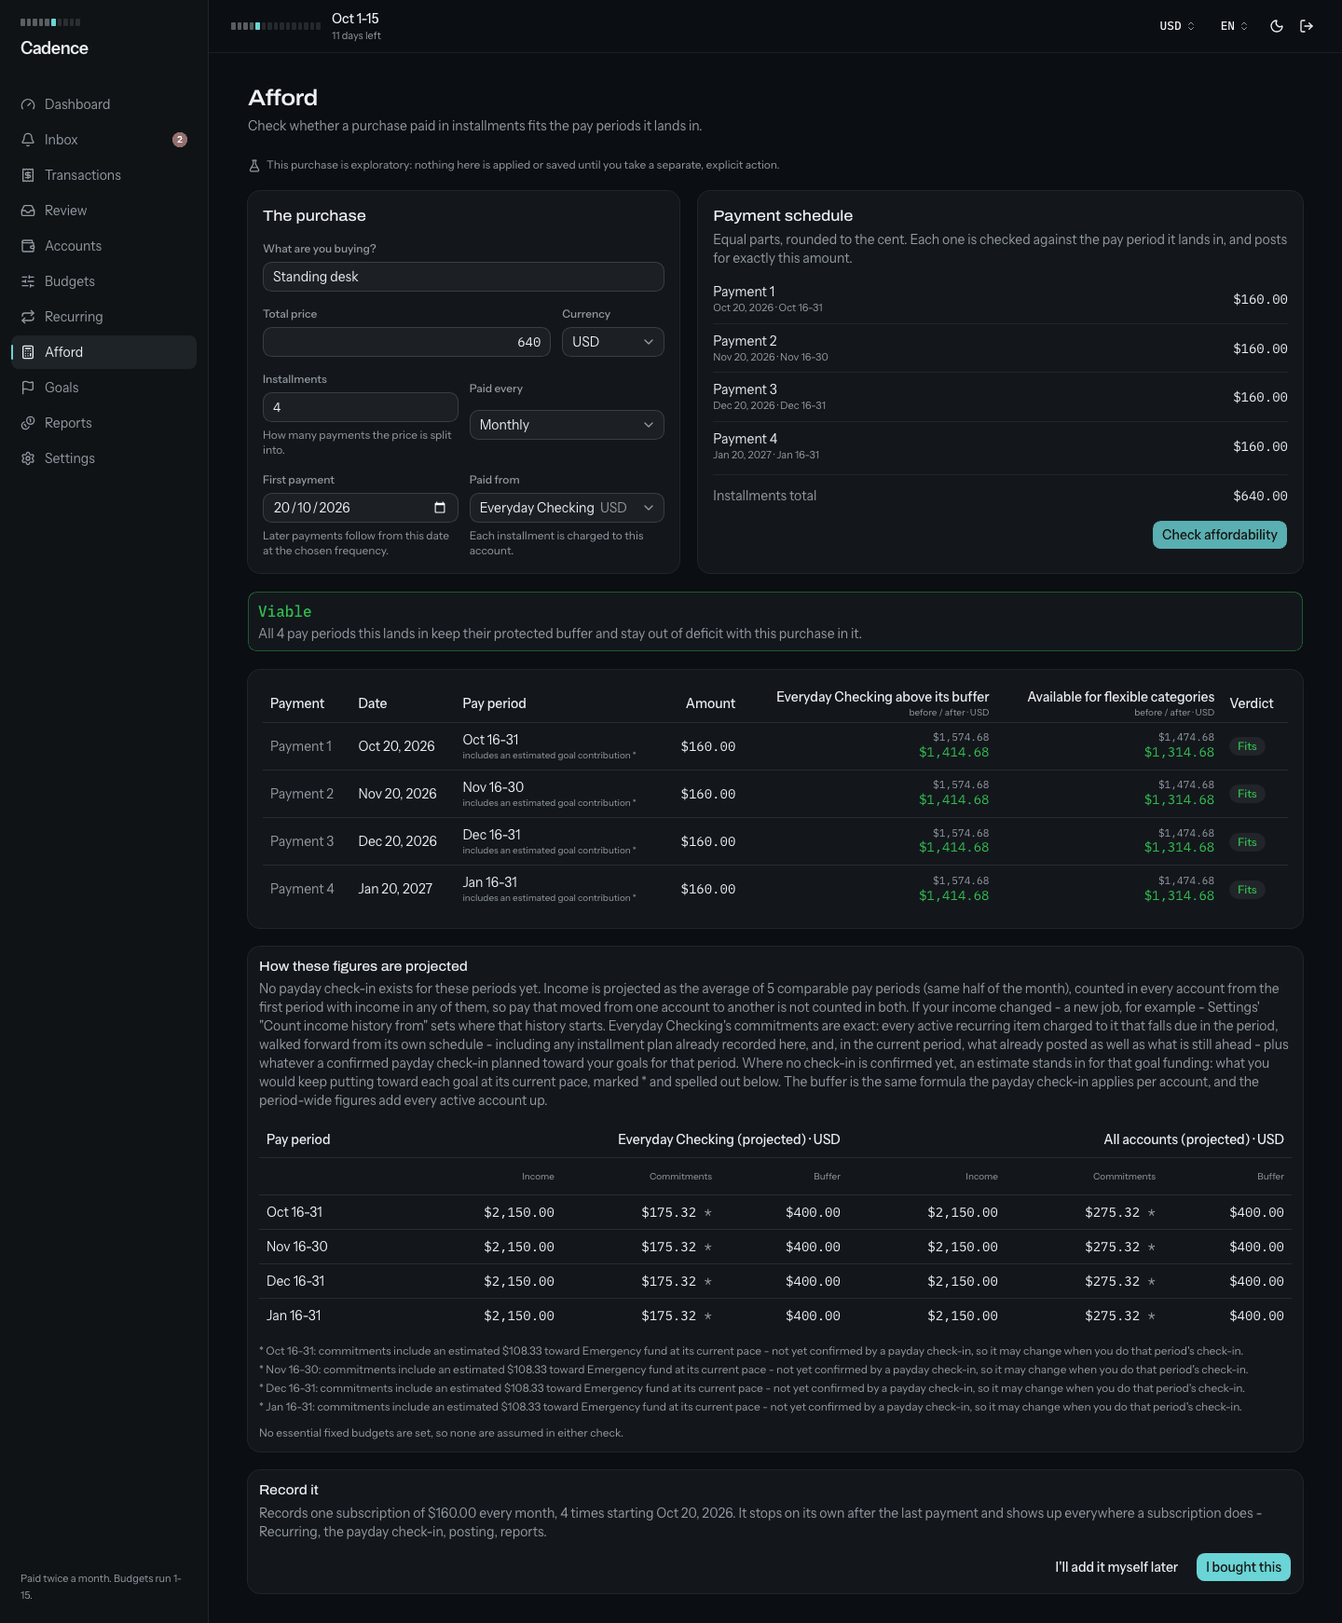
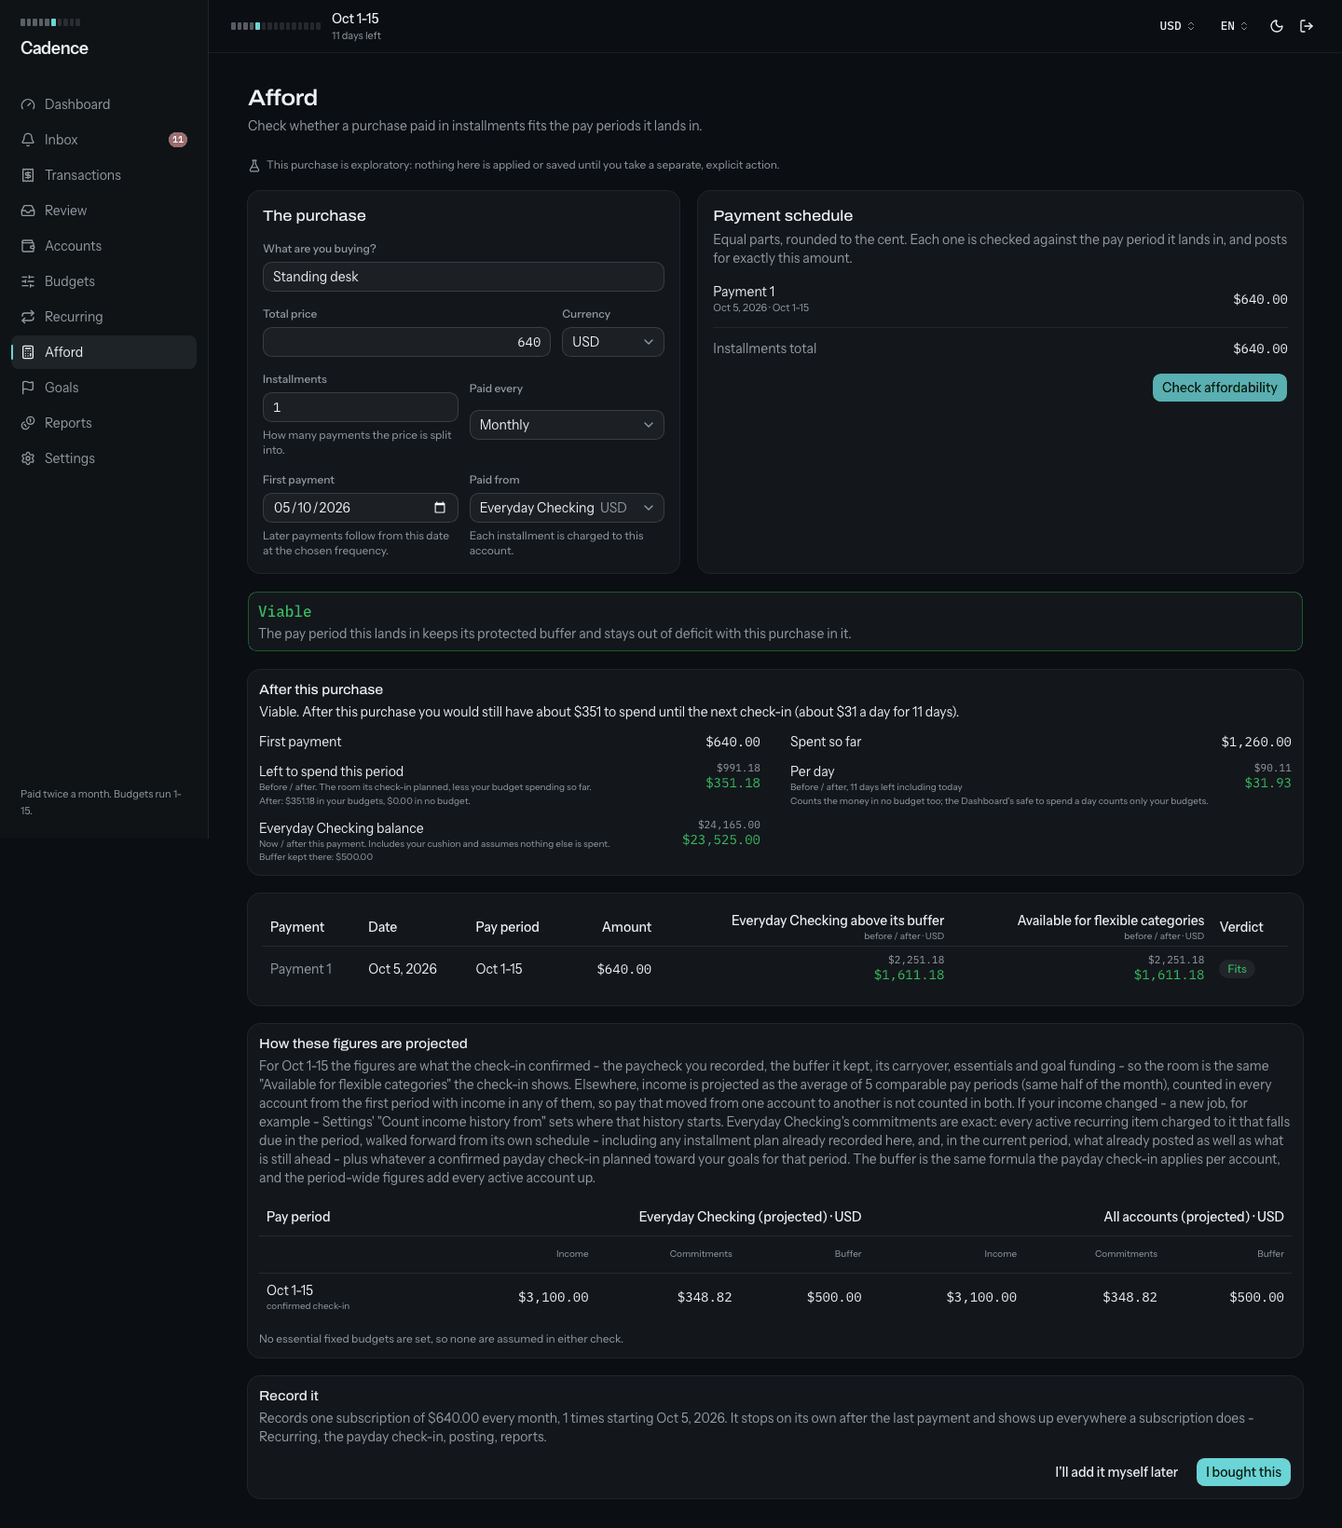
Close five small items: Afford per-day wording, check-in toast, room table on phones, May repeat hint
- Afford: the "Per day" hint says it counts the money in no budget too, unlike
  the Dashboard's safe to spend a day, when part of the money is in no budget
  (English and Spanish). No figure changes. README sentence and
  screenshots/afford-result.png updated (viable single payment, fictional data).
- Payday check-in: the "Payday check-in confirmed" toast is raised where the
  server's answer arrives, not from the dialog's state in an effect. Confirming
  from the Dashboard moves the check-in card to another place in the page, which
  remounted the dialog and dropped the answer, so nothing said it worked.
- Recurring dialog: the room check lists each account as a stacked block below
  sm; from sm up the table stays, and its account cell may wrap so the table
  fits the dialog instead of cutting off the verdict column.
- "May repeat" hint: only subscription items, and the item's category must equal
  the suggestion's unless the charge's description shares a word of three
  letters or more with the item's name. Harness: 7 checks (3258 -> 3265), 5 of
  them failing before the change.

diff --git a/src/components/recurring/subscription-room-panel.tsx b/src/components/recurring/subscription-room-panel.tsx
@@ -44,6 +44,14 @@ export function SubscriptionRoomPanel({
   const fitting = room.accounts.filter((account) => account.passes);
   const selected = room.accounts.find((account) => account.accountId === selectedAccountId) ?? null;
   const withoutHistory = room.accounts.filter((account) => account.basis === "none");
+  const verdictBadge = (account: LargeRoom["accounts"][number]) =>
+    account.passes ? (
+      <Badge variant="secondary" className="text-[var(--good)]">
+        {t.roomFits}
+      </Badge>
+    ) : (
+      <Badge variant="destructive">{t.roomShort}</Badge>
+    );
 
   return (
     <div
@@ -68,52 +76,84 @@ export function SubscriptionRoomPanel({
         ) : null}
       </div>
 
-      <Table>
-        <TableHeader>
-          <TableRow>
-            <TableHead>{t.roomColumnAccount}</TableHead>
-            <TableHead className="text-right whitespace-normal">
-              {t.roomColumnHeadroom}
-              <span className="block text-badge font-normal text-muted-foreground">
-                {t.roomBeforeAfter}
-              </span>
-            </TableHead>
-            <TableHead />
-          </TableRow>
-        </TableHeader>
-        <TableBody>
-          {room.accounts.map((account) => (
-            <TableRow
-              key={account.accountId}
-              className={cn(account.accountId === room.recommendedAccountId && "bg-[var(--good)]/5")}
-            >
-              <TableCell>
+      {/* Below sm each account is a stacked block, like the CSV duplicates
+          review's rows: the table needs 347px (a nowrap name, the two
+          figures and the badge) in the dialog's 317px, and its last column,
+          the verdict, sat past the edge of a sideways scroll. From sm the
+          table stays. Both read the same rows. */}
+      <ul className="divide-y divide-border/50 overflow-hidden rounded-md border border-border/50 sm:hidden">
+        {room.accounts.map((account) => (
+          <li
+            key={account.accountId}
+            className={cn(
+              "flex flex-col gap-1.5 px-3 py-2.5",
+              account.accountId === room.recommendedAccountId && "bg-[var(--good)]/5",
+            )}
+          >
+            <div className="flex items-center justify-between gap-3">
+              <span className="min-w-0">
                 {account.name}
                 {account.accountId === selectedAccountId ? (
                   <span className="ml-1.5 text-badge text-muted-foreground">{t.roomSelected}</span>
                 ) : null}
-              </TableCell>
-              <TableCell className="text-right">
-                <BeforeAfter
-                  before={account.headroomBefore}
-                  after={account.headroomAfter}
-                  currency={account.currency}
-                  passes={account.passes}
-                />
-              </TableCell>
-              <TableCell>
-                {account.passes ? (
-                  <Badge variant="secondary" className="text-[var(--good)]">
-                    {t.roomFits}
-                  </Badge>
-                ) : (
-                  <Badge variant="destructive">{t.roomShort}</Badge>
-                )}
-              </TableCell>
+              </span>
+              {verdictBadge(account)}
+            </div>
+            <div className="flex items-end justify-between gap-3">
+              <span className="text-hint text-muted-foreground">
+                {t.roomColumnHeadroom} · {t.roomBeforeAfter}
+              </span>
+              <BeforeAfter
+                before={account.headroomBefore}
+                after={account.headroomAfter}
+                currency={account.currency}
+                passes={account.passes}
+              />
+            </div>
+          </li>
+        ))}
+      </ul>
+
+      <div className="max-sm:hidden">
+        <Table>
+          <TableHeader>
+            <TableRow>
+              <TableHead>{t.roomColumnAccount}</TableHead>
+              <TableHead className="text-right whitespace-normal">
+                {t.roomColumnHeadroom}
+                <span className="block text-badge font-normal text-muted-foreground">
+                  {t.roomBeforeAfter}
+                </span>
+              </TableHead>
+              <TableHead />
             </TableRow>
-          ))}
-        </TableBody>
-      </Table>
+          </TableHeader>
+          <TableBody>
+            {room.accounts.map((account) => (
+              <TableRow
+                key={account.accountId}
+                className={cn(account.accountId === room.recommendedAccountId && "bg-[var(--good)]/5")}
+              >
+                <TableCell className="whitespace-normal">
+                  {account.name}
+                  {account.accountId === selectedAccountId ? (
+                    <span className="ml-1.5 text-badge text-muted-foreground">{t.roomSelected}</span>
+                  ) : null}
+                </TableCell>
+                <TableCell className="text-right">
+                  <BeforeAfter
+                    before={account.headroomBefore}
+                    after={account.headroomAfter}
+                    currency={account.currency}
+                    passes={account.passes}
+                  />
+                </TableCell>
+                <TableCell>{verdictBadge(account)}</TableCell>
+              </TableRow>
+            ))}
+          </TableBody>
+        </Table>
+      </div>
 
       <div className="space-y-1 text-xs">
         {recommended ? (

diff --git a/scripts/verify-domain.ts b/scripts/verify-domain.ts
@@ -18207,6 +18207,75 @@ async function main() {
           await cWipe();
         }
       }
+
+      // ---------------------------------------------------------------------
+      console.log("\n-- the May repeat hint: subscriptions only, and the same kind of spending --");
+      {
+        await cRates([]);
+        const restore = await seedStoredRates({ USD: 1, DOP: 63.1, EUR: 63.1 / 73.2 });
+        try {
+          const bank = await cAccount("Hint Bank");
+          const card = await cAccount("Hint Card");
+          const groceries = await prisma.category.create({ data: { name: "Verify Rev2C Hint Groceries", kind: "EXPENSE" } as never });
+          const savings = await prisma.category.create({ data: { name: "Verify Rev2C Hint Savings", kind: "EXPENSE" } as never });
+          const video = await prisma.category.create({ data: { name: "Verify Rev2C Hint Video", kind: "EXPENSE" } as never });
+          const rainyDay = await prisma.recurringItem.create({
+            data: { name: "Verify Rev2C Rainy Day", amount: 5100, currency: "DOP", kind: "CONTRIBUTION", frequency: "MONTHLY", anchorDay: 12, nextDate: cDay(10, 12), active: true, accountId: bank.id, categoryId: savings.id },
+          });
+          const plan = await prisma.recurringItem.create({
+            data: { name: "Verify Rev2C Video Plan", amount: 650, currency: "DOP", kind: "SUBSCRIPTION", frequency: "MONTHLY", anchorDay: 12, nextDate: cDay(10, 12), active: true, accountId: bank.id, categoryId: video.id },
+          });
+          for (const month of [7, 8, 9]) {
+            await prisma.transaction.create({ data: { accountId: card.id, date: cDay(month, 12), amount: 5000, currency: "DOP", type: "EXPENSE", source: "CSV", note: "GROCERY MART 7", categoryId: groceries.id, externalId: `verify-rev2c-hint-grocery-${month}` } });
+            await prisma.transaction.create({ data: { accountId: card.id, date: cDay(month, 12), amount: 650, currency: "DOP", type: "EXPENSE", source: "CSV", note: "CLIPFLIX STREAM 99", categoryId: video.id, externalId: `verify-rev2c-hint-clipflix-${month}` } });
+          }
+          const context = {
+            displayCurrency: "DOP" as const,
+            language: "en" as const,
+            rates: await getRateTable(),
+            today: cDay(10, 4),
+            currentPeriod: periodForDate(cDay(10, 4)),
+            bufferPercent: 10,
+            bufferFloorAmount: 0,
+            bufferFloorCurrency: "DOP",
+          };
+          const hints = async () => {
+            const found = (await cSuggestions.findRecurringSuggestions(context as never)).filter((s) => s.accountId === card.id) as (Awaited<ReturnType<typeof cSuggestions.findRecurringSuggestions>>[number] & { mayRepeat?: { itemName: string } | null })[];
+            return found
+              .map((s) => `${s.sampleNote}: ${s.mayRepeat ? s.mayRepeat.itemName.replace("Verify Rev2C ", "") : "no hint"}`)
+              .sort()
+              .join(" | ");
+          };
+          eq(
+            "hint: a grocery charge is not offered the savings contribution of a similar amount, while the video charge is offered the video subscription (was: both offered)",
+            await hints(),
+            "CLIPFLIX STREAM 99: Video Plan | GROCERY MART 7: no hint",
+          );
+          await prisma.recurringItem.update({ where: { id: rainyDay.id }, data: { kind: "SUBSCRIPTION" } });
+          eq(
+            "hint: the same item as a subscription in another category still gives the grocery charge no hint",
+            await hints(),
+            "CLIPFLIX STREAM 99: Video Plan | GROCERY MART 7: no hint",
+          );
+          await prisma.recurringItem.update({ where: { id: rainyDay.id }, data: { categoryId: groceries.id } });
+          eq(
+            "hint: a subscription in the grocery charge's own category is offered",
+            await hints(),
+            "CLIPFLIX STREAM 99: Video Plan | GROCERY MART 7: Rainy Day",
+          );
+          await prisma.recurringItem.update({ where: { id: plan.id }, data: { categoryId: savings.id } });
+          eq("hint: the video plan in another category, sharing no word with the charge, is no longer offered", await hints(), "CLIPFLIX STREAM 99: no hint | GROCERY MART 7: Rainy Day");
+          await prisma.recurringItem.update({ where: { id: plan.id }, data: { name: "Verify Rev2C Stream Plan" } });
+          eq("hint: a word of three letters or more shared with the item's name offers it whatever the category", await hints(), "CLIPFLIX STREAM 99: Stream Plan | GROCERY MART 7: Rainy Day");
+          await prisma.recurringItem.update({ where: { id: plan.id }, data: { name: "Verify Rev2C Cl Plan" } });
+          eq("hint: a shorter shared word does not count", await hints(), "CLIPFLIX STREAM 99: no hint | GROCERY MART 7: Rainy Day");
+          await prisma.recurringItem.update({ where: { id: plan.id }, data: { categoryId: video.id, kind: "CONTRIBUTION" } });
+          eq("hint: a contribution item in the charge's own category is never offered", await hints(), "CLIPFLIX STREAM 99: no hint | GROCERY MART 7: Rainy Day");
+        } finally {
+          await restore();
+          await cWipe();
+        }
+      }
     } finally {
       await cWipe();
       await prisma.exchangeRate.deleteMany();

diff --git a/src/lib/recurring-detection.ts b/src/lib/recurring-detection.ts
@@ -85,6 +85,8 @@ export interface TrackedRecurringItem {
   active: boolean;
   /** RecurringItem.frequency; read only by repeatedItem. */
   frequency?: string;
+  /** RecurringItem.kind; read only by repeatedItem. */
+  kind?: string;
 }
 
 /** One RecurringSuggestionDismissal row: never suggest this merchant on this account again. */
@@ -674,27 +676,39 @@ function isTracked(
 }
 
 /**
- * An active item that may already track `candidate` under another name or on
- * another account (S23): the same currency and cadence, and an amount within
- * the tolerance detection groups a bill's own charges by. Not proof - two
- * subscriptions can cost the same - so the suggestion is still offered, with
- * the item named beside it. isTracked has already dropped the candidates an
- * item matches by name, note or account and category.
+ * An active subscription that may already track `candidate` under another
+ * name or on another account (S23): the same currency and cadence, and an
+ * amount within the tolerance detection groups a bill's own charges by. A
+ * goal contribution is never offered - it is money set aside, not a bill a
+ * charge pays - and neither is an item in another category unless the
+ * charges' description shares a word of three letters or more with its name.
+ * Not proof - two subscriptions can cost the same - so the suggestion is
+ * still offered, with the item named beside it. isTracked has already
+ * dropped the candidates an item matches by name, note or account and
+ * category.
  */
 export function repeatedItem<T extends TrackedRecurringItem>(
-  candidate: Pick<RecurringCandidate, "amount" | "currency" | "cadence">,
+  candidate: Pick<RecurringCandidate, "amount" | "currency" | "cadence" | "categoryId" | "sampleNote">,
   items: readonly T[],
 ): T | null {
   const tolerance = amountTolerance(candidate.amount);
+  const described = new Set(wordsOf(candidate.sampleNote));
   return (
     items.find(
       (item) =>
         item.active &&
+        item.kind === "SUBSCRIPTION" &&
         item.frequency === candidate.cadence &&
         item.currency === candidate.currency &&
-        Math.abs(item.amount - candidate.amount) <= tolerance,
+        Math.abs(item.amount - candidate.amount) <= tolerance &&
+        (item.categoryId === candidate.categoryId || wordsOf(item.name).some((word) => described.has(word))),
     ) ?? null
   );
+}
+
+/** The words of three letters or more in `text`, lower-cased. */
+function wordsOf(text: string): string[] {
+  return text.toLowerCase().split(/[^a-z]+/).filter((word) => word.length >= 3);
 }
 
 /** The most common value, ties to the one on the most recent row (rows are oldest first). */

diff --git a/src/components/payday/payday-checkin-dialog.tsx b/src/components/payday/payday-checkin-dialog.tsx
@@ -39,7 +39,7 @@ import {
 } from "@/lib/payday";
 import { skipReasonLabel } from "@/lib/labels";
 import { cn } from "@/lib/utils";
-import { confirmPaydayCheckinAction } from "@/server/actions/payday";
+import { confirmPaydayCheckinAction, type PaydayActionState } from "@/server/actions/payday";
 
 import type { PaydayAcknowledgementState } from "@/lib/data/payday";
 import { reassignRecurringAccountAction } from "@/server/actions/recurring";
@@ -74,7 +74,16 @@ export function PaydayCheckinDialog({
   const [acknowledgedDeficit, setAcknowledgedDeficit] = useState(false);
   const [acknowledgedZeroBuffer, setAcknowledgedZeroBuffer] = useState(false);
   const [reassigningItemId, setReassigningItemId] = useState<string | null>(null);
-  const [state, formAction, pending] = useActionState(confirmPaydayCheckinAction, null);
+  // The confirmation toast is raised here, where the server's answer arrives,
+  // not from `state` in an effect: confirming moves the Dashboard's check-in
+  // card to another place in the page (it stops leading), which remounts this
+  // dialog with a fresh `state`, so an effect would never see the answer.
+  const confirmAndAnnounce = async (previous: PaydayActionState, formData: FormData) => {
+    const result = await confirmPaydayCheckinAction(previous, formData);
+    if (result?.ok) toast.success(result.message ?? t.checkinConfirmed);
+    return result;
+  };
+  const [state, formAction, pending] = useActionState(confirmAndAnnounce, null);
   const handled = useRef<number | undefined>(undefined);
   // What the server measured when it last refused, kept alongside the plan that
   // produced it. The figures further down come from the rates this dialog
@@ -109,11 +118,10 @@ export function PaydayCheckinDialog({
     if (!state || state.at === handled.current) return;
     handled.current = state.at;
     if (state.ok) {
-      toast.success(state.message ?? t.checkinConfirmed);
       onOpenChange(false);
       return;
     }
-  }, [state, onOpenChange, t.checkinConfirmed]);
+  }, [state, onOpenChange]);
 
   // Adjusted during render rather than in an effect, the same pattern as the
   // reopen reset above.

diff --git a/src/components/afford/afford-results.tsx b/src/components/afford/afford-results.tsx
@@ -214,7 +214,17 @@ function AffordSummaryCard({
               format={left}
             />
           </SummaryRow>
-          <SummaryRow label={t.summaryPerDay} hint={t.summaryPerDayHint(summary.days, future)}>
+          <SummaryRow
+            label={t.summaryPerDay}
+            hint={
+              <>
+                {t.summaryPerDayHint(summary.days, future)}
+                {summary.split.before.noBudget > 0 || summary.split.after.noBudget > 0 ? (
+                  <span className="block">{t.summaryPerDayNoBudget}</span>
+                ) : null}
+              </>
+            }
+          >
             <BeforeAfter
               before={summary.perDay.before}
               after={summary.perDay.after}

diff --git a/src/lib/i18n/es.ts b/src/lib/i18n/es.ts
@@ -1041,6 +1041,7 @@ export const es = {
     summaryPerDay: "Por día",
     summaryPerDayHint: (days: number, future: boolean) =>
       future ? `Antes / después, en sus ${days} ${days === 1 ? "día" : "días"}` : `Antes / después, ${days} ${days === 1 ? "día" : "días"} restantes contando hoy`,
+    summaryPerDayNoBudget: "También cuenta el dinero que no está en ningún presupuesto; lo disponible para gastar por día del Panel cuenta solo tus presupuestos.",
     summaryAccount: (account: string) => `Saldo de ${account}`,
     summaryAccountHint: (payments: number) =>
       `Ahora / después de ${payments === 1 ? "este pago" : `estos ${payments} pagos`}. Incluye tu reserva y supone que no gastas nada más.`,

diff --git a/src/lib/i18n/en.ts b/src/lib/i18n/en.ts
@@ -1054,6 +1054,7 @@ export const en = {
     summaryPerDay: "Per day",
     summaryPerDayHint: (days: number, future: boolean) =>
       future ? `Before / after, over its ${days} ${days === 1 ? "day" : "days"}` : `Before / after, ${days} ${days === 1 ? "day" : "days"} left including today`,
+    summaryPerDayNoBudget: "Counts the money in no budget too; the Dashboard's safe to spend a day counts only your budgets.",
     summaryAccount: (account: string) => `${account} balance`,
     summaryAccountHint: (payments: number) =>
       `Now / after ${payments === 1 ? "this payment" : `these ${payments} payments`}. Includes your cushion and assumes nothing else is spent.`,

diff --git a/src/lib/data/recurring-suggestions.ts b/src/lib/data/recurring-suggestions.ts
@@ -79,7 +79,7 @@ export async function findRecurringSuggestions(context: AppContext): Promise<Rec
       },
     }),
     prisma.recurringItem.findMany({
-      select: { name: true, note: true, amount: true, currency: true, accountId: true, categoryId: true, active: true, frequency: true },
+      select: { name: true, note: true, amount: true, currency: true, accountId: true, categoryId: true, active: true, frequency: true, kind: true },
       orderBy: { name: "asc" },
     }),
     prisma.recurringSuggestionDismissal.findMany({ select: { accountId: true, merchantKey: true } }),

diff --git a/README.md b/README.md
@@ -273,8 +273,10 @@ left to spend until the next check-in once the first payment is in, and per day 
 the days left. That figure is the period's room less your budget spending so far, the
 same amount the next check-in would offer as carryover, and it shows as "over" when
 negative. The summary also shows the first payment converted at the rate the check
-used, how much of what is left sits in your budgets and how much in no budget, and the
-paying account's balance now and after the payment. With several payments it names
+used, how much of what is left sits in your budgets and how much in no budget (the
+per-day figure counts the no-budget money too, so it can differ from the Dashboard's
+safe to spend a day, which counts only your budgets), and the paying account's
+balance now and after the payment. With several payments it names
 the tightest period. When the plan does not fit, it says how much the tightest period
 is short and the largest payment that would still fit. If the first payment falls in
 a later period, the figures use that period's projected room.
